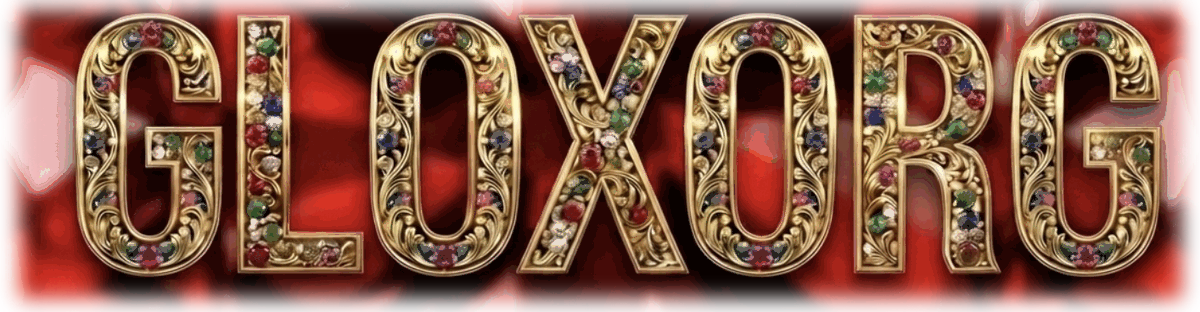
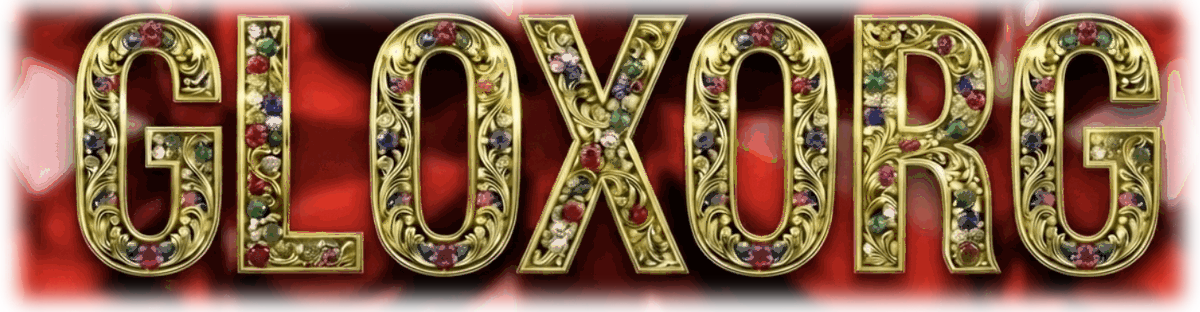
B132: Üstbar ince ayar — profil/ayı küçüldü, küre ayıya binmez, GLOXORG tam altın
Profil biraz küçüldü (44->42, yine ayıdan büyük), ayı biraz daha küçüldü
(36->32). Dünya küresi absolute yerine akışa alındı (altyazının yanında) →
dar ekranda bile ayıya taşmaz. GLOXORG harflerinin altın/turuncu rengi harf
şekli değişmeden tam altına çekildi (turuncu gitti); taşlar korundu.
sw.js B131->B132.

Claude-Session: https://claude.ai/code/session_01NL5UFbXL2aH6562eJk5V7E

diff --git a/src/Anasayfa.css b/src/Anasayfa.css
@@ -772,8 +772,8 @@
 .header-dil .dil-etiket{ display:none; }
 .header-dil .dil-dugme{ width:auto; height:auto; background:none; border:none; box-shadow:none; -webkit-backdrop-filter:none; backdrop-filter:none; }
 /* Pusula da AYNI boy (önceki .ana-ara-btn svg kuralı ufaltıyordu) + profile yakın */
-.ana-site-ai .ana-site-ai-pusula{ width:25px; height:25px; } /* ayı KÜÇÜK — profilden ufak (kullanıcı: ayı profilden küçük olacak) */
-.ana-site-ai{ margin-left:5px; margin-right:-2px; width:36px; height:36px; min-width:36px; } /* ayı profilden KÜÇÜK + mavi safir çerçeve (profille aynı değil); margin-left → küreye değmez */
+.ana-site-ai .ana-site-ai-pusula{ width:22px; height:22px; } /* ayı biraz DAHA küçük — profilden belirgin ufak (kullanıcı) */
+.ana-site-ai{ margin-left:6px; margin-right:-2px; width:32px; height:32px; min-width:32px; } /* ayı profilden KÜÇÜK + mavi safir çerçeve; küre akışta olduğu için zaten çakışmaz */
 .ana-zil{ margin-left:-3px; }
 .ana-logo-sar{ flex:1; display:flex; flex-direction:column; align-items:center; justify-content:center; text-align:center; min-width:0; margin-top:4px; } /* GLOXORG biraz aşağı — üst çerçeveye dayanmasın (kullanıcı) */
 .ana-logo-sat{ display:flex; align-items:center; justify-content:center; gap:9px; }
@@ -840,15 +840,15 @@
 .ana-amblem .am-yuva{ animation:amYuvaParla 3.4s ease-in-out infinite; }
 @keyframes amYuvaParla{ 0%,100%{ filter:drop-shadow(0 0 0 rgba(255,215,0,0)); } 50%{ filter:drop-shadow(0 0 2.5px rgba(255,215,0,.9)); } }
 /* Alt yazı ORTALI kalır; dünya da AYRI (akış-dışı) — hizayı BOZMAZ */
-.ana-alt-sar{ position:relative; display:inline-block; margin-top:1px; }
+.ana-alt-sar{ position:relative; display:inline-flex; align-items:center; vertical-align:middle; margin-top:1px; } /* küre artık AKIŞTA (altyazının yanında) — ayıya taşmaz */
 .ana-alt{ font-family:'Cormorant Garamond',serif; font-style:italic; font-size:10px; font-weight:700; color:#ffe6ac; letter-spacing:.2px; } /* pırlanta zeminde okunsun: parlak altın + kalın; boyut küçültüldü (kullanıcı: çok büyüktü) */
 /* 3D DÜNYA küre (SVG) — net renkli kıtalar yatay döner; küresel ışık/gölge svg içinde */
-.ana-dunya{ position:absolute; left:100%; top:50%; transform:translateY(-50%); margin-left:5px;
-  width:20px; height:20px; display:block; pointer-events:none; } /* dünya ikonu büyütüldü (kullanıcı) */
+.ana-dunya{ position:static; flex:none; margin-left:5px;
+  width:20px; height:20px; display:block; pointer-events:none; } /* AKIŞTA — altyazının yanında, ayıya binmez (kullanıcı) */
 .ana-dunya svg{ display:block; width:100%; height:100%; filter:drop-shadow(0 0 4px rgba(120,200,255,.6)); }
 .ana-profil-foto{ width:100%; height:100%; border-radius:50%; object-fit:cover; }
 .ana-profil{ position:relative; overflow:visible;
-  width:44px; height:44px; flex:none; cursor:pointer; /* profil ayıdan BÜYÜK; öncekinden birazcık küçük (kullanıcı) */
+  width:42px; height:42px; flex:none; cursor:pointer; /* profil ayıdan BÜYÜK; biraz daha küçültüldü (kullanıcı) */
   display:flex; align-items:center; justify-content:center;
   background-repeat:no-repeat; transition:filter .2s;
 } /* YUVARLAK pırlanta çerçeve zeminde (Gemini); foto/harf merkezi kapatır (kullanıcı isteği) */
@@ -1568,9 +1568,9 @@ html[dir="rtl"] .ana-menu{ left:auto; right:0; border-right:none; border-left:1p
   .header-dil{ display:inline-flex; }
   .header-dil .dil-dugme svg{ width:29px; height:29px; }
   .menu-dil{ display:none; }
-  .ana-site-ai{ width:40px; height:40px; min-width:40px; } /* ayı profilden KÜÇÜK (iPad) */
-  .ana-site-ai .ana-site-ai-pusula{ width:28px; height:28px; }
-  .ana-profil{ width:48px; height:48px; } /* profil ayıdan büyük */
+  .ana-site-ai{ width:36px; height:36px; min-width:36px; } /* ayı profilden KÜÇÜK (iPad) */
+  .ana-site-ai .ana-site-ai-pusula{ width:25px; height:25px; }
+  .ana-profil{ width:46px; height:46px; } /* profil ayıdan büyük */
   /* üst ikon sırası ferah — BÜYÜK/belirgin (kullanıcı: iPad yazı/ikon büyüt) */
   .ana-nav{ gap:13px; padding-top:8px; }
   .ana-nav-kutu{ width:58px; height:58px; border-radius:17px; }
@@ -1627,9 +1627,9 @@ html[dir="rtl"] .ana-menu{ left:auto; right:0; border-right:none; border-left:1p
   .ana-menu-cikis{ font-size:22px; padding:19px; }
   .ana-menu-durum{ font-size:16px; }
   .header-dil .dil-dugme svg{ width:31px; height:31px; }
-  .ana-site-ai{ width:44px; height:44px; min-width:44px; } /* ayı profilden KÜÇÜK (bilgisayar) */
-  .ana-site-ai .ana-site-ai-pusula{ width:31px; height:31px; }
-  .ana-profil{ width:52px; height:52px; } /* profil ayıdan büyük */
+  .ana-site-ai{ width:40px; height:40px; min-width:40px; } /* ayı profilden KÜÇÜK (bilgisayar) */
+  .ana-site-ai .ana-site-ai-pusula{ width:28px; height:28px; }
+  .ana-profil{ width:50px; height:50px; } /* profil ayıdan büyük */
   /* üst ikon sırası geniş ve ferah — BÜYÜK/belirgin (kullanıcı: notebook yazı/ikon büyüt) */
   .ana-nav{ max-width:820px; gap:15px; padding-top:10px; }
   .ana-nav-kutu{ width:62px; height:62px; border-radius:18px; }
@@ -2128,7 +2128,7 @@ html[dir="rtl"] .ana-menu{ left:auto; right:0; border-right:none; border-left:1p
 
 /* SİTE ASİSTANI başlık ikonu — RENKLİ PUSULA (altın halka + kırmızı/beyaz iğne) */
 .ana-site-ai{ padding:0; display:flex; align-items:center; justify-content:center; background-color:transparent; border:none; } /* çerçeve zemini INLINE style ile (ayiCerceve) — background:none !important KALDIRILDI ki çerçeve görünsün */
-.ana-site-ai-pusula{ width:25px; height:25px; filter:drop-shadow(0 1px 2px rgba(0,0,0,.55)); }
+.ana-site-ai-pusula{ width:22px; height:22px; filter:drop-shadow(0 1px 2px rgba(0,0,0,.55)); }
 .ana-site-ai:active{ transform:scale(.9); }
 
 /* ===== GLOXORG YARDIMCISI — yapay zeka sohbet balonu + penceresi ===== */

diff --git a/src/buildGecmisi.js b/src/buildGecmisi.js
@@ -2,6 +2,7 @@
 // Her deploy'da AKTİF satırın: build +1, tarih, saat, aciklama güncelle.
 // Yeni A-serisine geçince başına yeni satır ekle — eski satırlar silinmez.
 export const buildGecmisi = [
+  { surum:'A11', build:132, dosya:'USTBAR INCE AYAR: PROFIL BIRAZ KUCULDU + AYI BIRAZ DAHA KUCULDU + KURE AYIYA BINMEZ + GLOXORG TAM ALTIN (kullanici). (1) PROFIL biraz kucultuldu: telefon 44->42 (tablet 48->46, pc 52->50) — yine ayidan BUYUK. (2) AYI biraz DAHA kucultuldu: dugme telefon 36->32 (tablet 40->36, pc 44->40), pusula 25->22 (28->25 / 31->28). (3) AYI KUREYE BINMEZ: dunya kuresi (.ana-dunya) artik ABSOLUTE degil AKISTA (.ana-alt-sar inline-flex; .ana-dunya position:static, altyazinin yaninda) -> kure logo blogunun ICINDE kalir, dar ekranda bile ayiya asla tasmaz (onceki left:100% absolute konumda tasabiliyordu). (4) GLOXORG YAZISI TAM ALTIN: wordmark gorsellerindeki altin/turuncu pikseller (hue ~30-39 turuncu-altin idi) harf sekli/stili DEGISMEDEN sadece renk olarak tam altina (~hue 50) cekildi + hafif doygunluk; kirmizi/mavi/yesil taslar korundu. src/gloxWordmarkKirmizi.png + gloxWordmark.png. Kullanici: "gloxorg tam altin rengi, turuncu kaciyor; stilini/harfleri degistirme sadece renk". sw.js B131->B132.', tarih:'2026-07-07', saat:'21:35', aciklama:'Üstbar ince ayar: profil biraz küçüldü, ayı biraz daha küçüldü, küre akışa alındı (ayıya binmez), GLOXORG tam altın rengi (turuncu gitti). Almanya saati.', tarih2:'' },
   { surum:'A11', build:131, dosya:'USTBAR DUZELTME (B130 ters olmustu): PROFIL AYIDAN BUYUK + AYI KUCUK + FARKLI RENK TAS (kullanici: "ayiyi cok buyuk yaptin, profilimle ayni cerceve olmaz musteriyi benimle esit yapma, ayinin taslarini baska renk yap, ayi profilden kucuk olacak, profili buyut"). B130 da yanlislikla profil kucultulup (40) ayi buyutulmustu (48) -> hiyerarsi TERS donmustu. DUZELTME: (1) PROFIL ayidan BUYUK: telefon 40->44, tablet 44->48, pc 46->52 (onceki 46 dan birazcik kucuk, kullanici "biraz ufalt" demisti). (2) AYI profilden KUCUK: dugme telefon 48->36, tablet 54->40, pc 62->44; pusula 33->25 / 37->28 / 42->31. (3) AYI TASLARI FARKLI RENK: profil BEYAZ pirlanta iken ayi cercevesi artik MAVI SAFIR taslarla (src/ayiCerceve.png yeniden cizildi) -> ayi profille AYNI gorunmuyor, ayri/ikincil duruyor. Altin halka kaldi. Kure ile ayi arasi bosluk korundu (margin-left:5px). Foto/islev degismedi. sw.js B130->B131.', tarih:'2026-07-07', saat:'21:05', aciklama:'Üstbar düzeltme: profil ayıdan büyük, ayı küçük ve mavi safir taşlı (profille aynı değil). Almanya saati.', tarih2:'' },
   { surum:'A11', build:130, dosya:'USTBAR: PROFIL BIRAZ KUCULDU + AYI (EKSPERT) DUGMESINE PIRLANTA CERCEVE + BIRAZ BUYUDU + KUREDEN UZAK (kullanici). (1) PROFIL cercevesi buyuktu -> .ana-profil telefon 46->40px (tablet 46->44, pc 48->46). (2) AYI DUGMESI (.ana-site-ai / ust Ekspert ayi) artik profil ile AYNI tarzda yuvarlak pirlanta cercevede: kodla cizilmis altin+pave elmas halka (merkez seffaf, src/ayiCerceve.png; Playwright rasterize), inline backgroundImage ile dugmeye kondu; ayinin kendi altin cizgi halkasi (svg circle stroke) kaldirildi (cerceve zaten altin) -> ayi lacivert madalyon icinde. CSS .ana-site-ai background:none !important KALDIRILDI (cerceve gorunsun diye). (3) AYI BIRAZ BUYUDU: dugme 42->48px, pusula 30->33px (tablet 54/37, pc 62/42). (4) AYI KUREYE GELMESIN: .ana-site-ai margin-left:6px -> ust dunya kuresi (.ana-dunya, altyazinin sagina absolute) ile ayi arasinda bosluk; dar telefonda bile cakismaz (360px maket ile dogrulandi). Foto/islev degismedi. sw.js B129->B130.', tarih:'2026-07-07', saat:'20:35', aciklama:'Üstbar: profil biraz küçüldü, ayı düğmesine pırlanta çerçeve + biraz büyüdü, ayı artık küreye değmiyor (arada boşluk). Almanya saati.', tarih2:'' },
   { surum:'A11', build:129, dosya:'YUVARLAK PROFIL CERCEVESI ARTIK SIFIRDAN KODLA CIZILDI (foto-kesme birakildi) — TAM DOLU PIRLANTA + ORTA KIRMIZI (kullanici: "kendin yuvarlak cerceve yap, tam dolu pirlanta olsun, hala ayi gozukuyor, foto yuklerken gorunmuyor, duzgun yuvarlak dugme yap"). Onceki surumlerde kullanicinin foto cercevesinden kesiliyordu -> ayi kalintisi/beyaz merkez/foto oturmama sorunlari. ARTIK: SVG ile tamamen kod cizimi (Playwright ile 1024px e rasterize, 512 ye indirildi, src/profilCerceve.png): dis parlak altin halka + koyu altin yatak + 3 SIRA sik pave pirlanta (176 tas, her biri radyal beyaz-mavi degrade + 8 faset cizgisi + 4 kollu yildiz isilti + koyu yatak) + ic altin halka + ORTA yakut kirmizi radyal degrade (parlak #ff5a63 merkez -> koyu #4a070d) + cam parlakligi. Tam simetrik, ayi/artik YOK. Aciklik (r144/200=%72) CSS foto bindirmesiyle (top/left 14%, %72) BIREBIR ortusur -> foto tam ortaya oturur, kirmizi bosluk yok; fotosuz uyede kirmizi + altin harf gorunur. cerceve.png (kare, alt nav) degismedi. CSS/islev degismedi. sw.js B128->B129.', tarih:'2026-07-07', saat:'20:05', aciklama:'Yuvarlak profil çerçevesi sıfırdan kodla çizildi: tam dolu 3 sıra pırlanta + orta kırmızı yakut, ayı yok, fotoğraf tam oturuyor. Almanya saati.', tarih2:'' },

diff --git a/public/sw.js b/public/sw.js
@@ -1,7 +1,7 @@
 /* GLOXORG servis çalışanı — bildirim göstermek için (Android Chrome new Notification() desteklemez,
    ServiceWorkerRegistration.showNotification() gerekir). Tam ekran/arka plan sekmede bildirim çıkar.
    SW_SURUM: her yayında ARTAR → tarayıcı yeni sw.js farkını görüp yeni sürümü kurar (eski önbellekte takılmaz). */
-const SW_SURUM = "B131";
+const SW_SURUM = "B132";
 self.addEventListener("install", (e) => { self.skipWaiting(); });
 self.addEventListener("activate", (e) => { e.waitUntil((async () => {
   // Eski onbellekleri temizle (kullanici bir daha ESKI surumde takilmasin)
